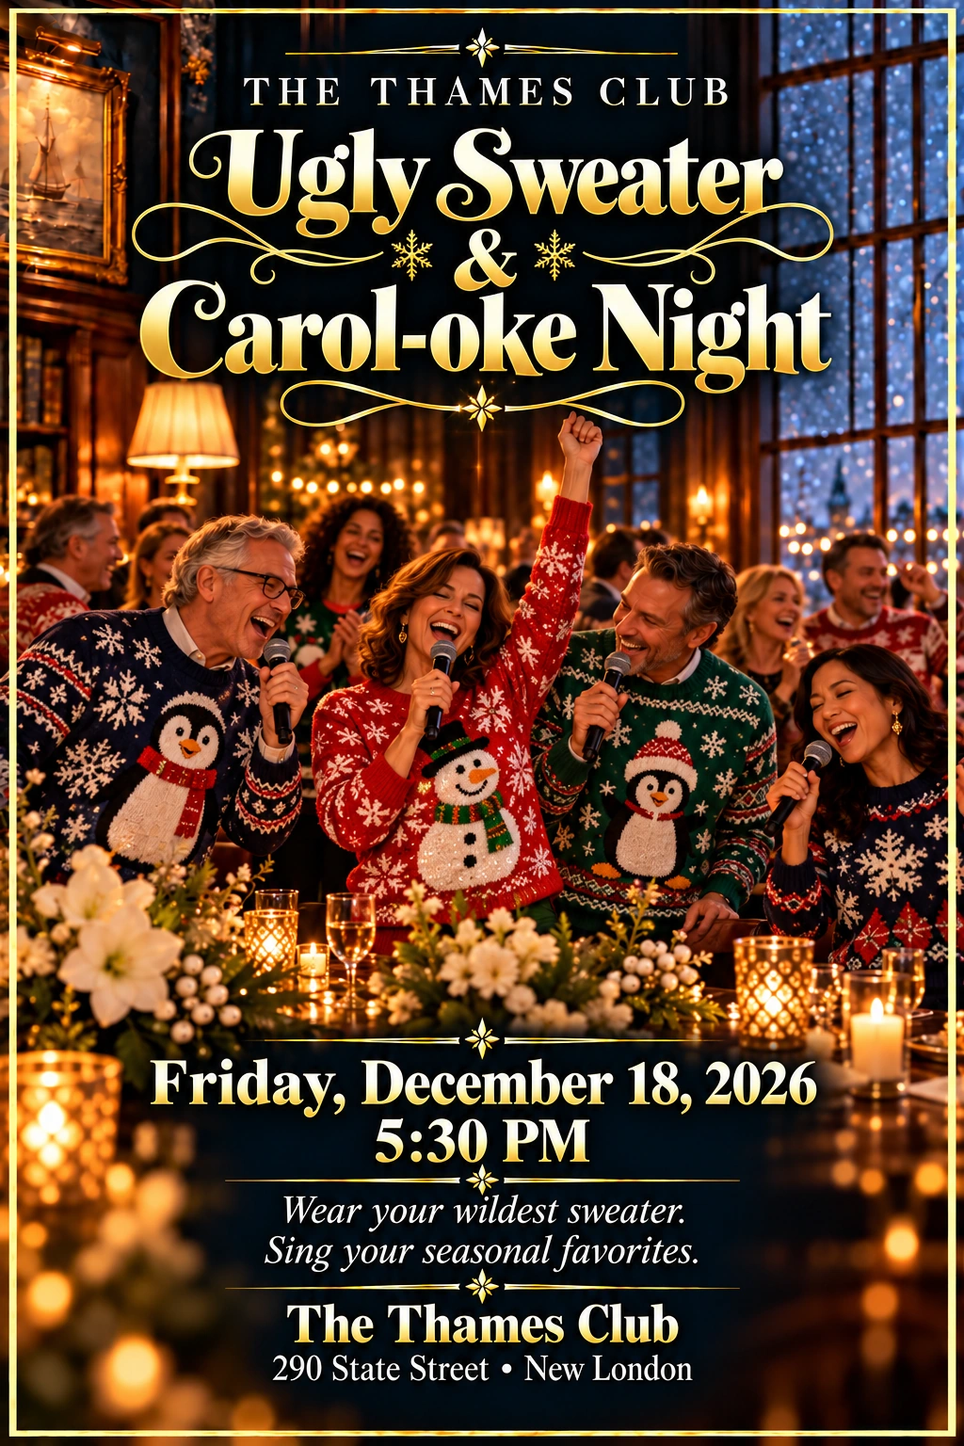
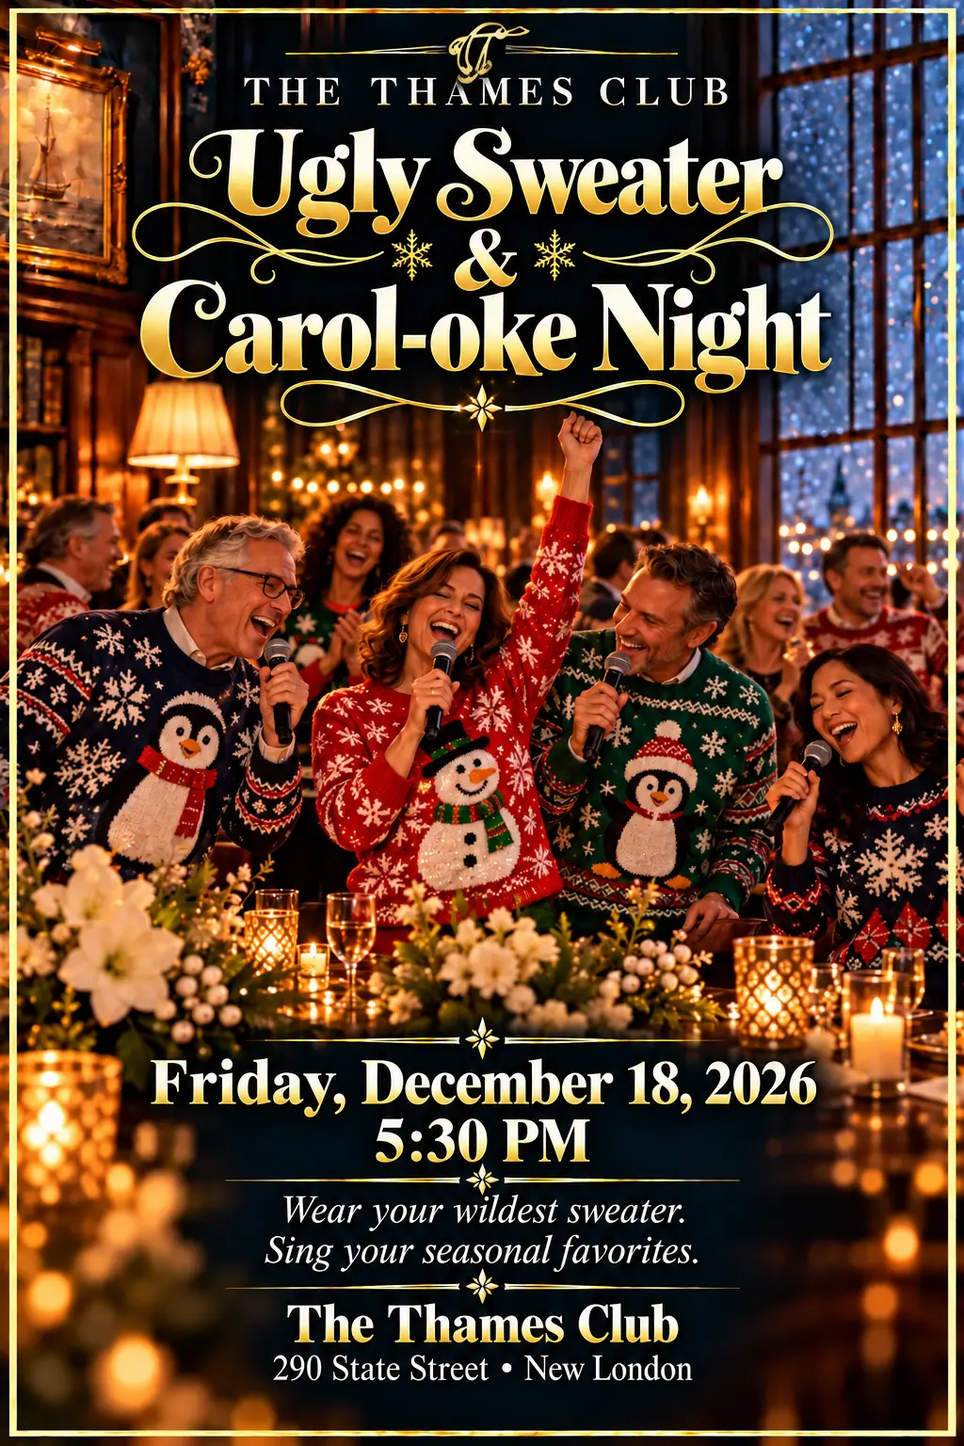
Replace event flyer branding with approved gold monogram and record standing standard

diff --git a/events.html b/events.html
@@ -238,47 +238,47 @@ footer a:hover {
           <figcaption><time datetime="2026-10-23">October 23</time>Classic Movie Night</figcaption>
         </figure>
         <figure class="event-flyer">
-          <a class="event-flyer-art" href="https://duckpin-manager-production.up.railway.app/members/flyers/witching-2026-10-30.svg" target="_blank" rel="noopener noreferrer" aria-label="Read full-size flyer (opens in a new tab)"><img src="https://duckpin-manager-production.up.railway.app/members/flyers/witching-2026-10-30.svg" alt="Witching, Bitching and Warlocks monthly luncheon, October 30, 2026 at 11:30 AM. $40++; reserve by October 23. Menu coming soon." decoding="async"></a>
+          <a class="event-flyer-art" href="https://duckpin-manager-production.up.railway.app/members/flyers/witching-2026-10-30.svg?v=gold20261025" target="_blank" rel="noopener noreferrer" aria-label="Read full-size flyer (opens in a new tab)"><img src="https://duckpin-manager-production.up.railway.app/members/flyers/witching-2026-10-30.svg?v=gold20261025" alt="Witching, Bitching and Warlocks monthly luncheon, October 30, 2026 at 11:30 AM. $40++; reserve by October 23. Menu coming soon." decoding="async"></a>
           <figcaption><time datetime="2026-10-30">October 30</time>Witching, Bitching &amp; Warlocks</figcaption>
         </figure>
         <figure class="event-flyer" data-approval="approved">
-          <a class="event-flyer-art" href="images/wells-watercraft-tour-2026-11-13.png" target="_blank" rel="noopener noreferrer" aria-label="Read the full Wells Watercraft Hall tour flyer (opens in a new tab)"><img src="images/wells-watercraft-tour-2026-11-13.png" alt="Wells Watercraft Hall Tour at Mystic Seaport Museum, Friday November 13, 2026 at 3 PM, followed by cocktails at La Plage. Reserve with Donna Richmond at donnarichmond5@gmail.com." decoding="async"></a>
+          <a class="event-flyer-art" href="images/wells-watercraft-tour-2026-11-13-gold.webp?v=gold20261025" target="_blank" rel="noopener noreferrer" aria-label="Read the full Wells Watercraft Hall tour flyer (opens in a new tab)"><img src="images/wells-watercraft-tour-2026-11-13-gold.webp?v=gold20261025" alt="Wells Watercraft Hall Tour at Mystic Seaport Museum, Friday November 13, 2026 at 3 PM, followed by cocktails at La Plage. Reserve with Donna Richmond at donnarichmond5@gmail.com." decoding="async"></a>
           <figcaption><time datetime="2026-11-13">Friday, November 13 · 3 PM</time>Wells Watercraft Hall Tour &amp; Cocktails<br><a href="mailto:donnarichmond5@gmail.com">Reserve with Donna Richmond</a></figcaption>
         </figure>
         <figure class="event-flyer" data-approval="approved">
-          <a class="event-flyer-art" href="images/paris-to-pathos-talk-2026-11-18.png" target="_blank" rel="noopener noreferrer" aria-label="Read the full Paris to Pathos concert talk flyer (opens in a new tab)"><img src="images/paris-to-pathos-talk-2026-11-18.png" alt="Paris to Pathos concert talk with Eastern Connecticut Symphony Orchestra, Wednesday November 18, 2026 at 2 PM, The Thames Club. Members and nonmembers welcome; no reservations required. Cash bar and complimentary snacks. Previewing the separate November 21 performance." decoding="async"></a>
+          <a class="event-flyer-art" href="images/paris-to-pathos-talk-2026-11-18-gold.webp?v=gold20261025" target="_blank" rel="noopener noreferrer" aria-label="Read the full Paris to Pathos concert talk flyer (opens in a new tab)"><img src="images/paris-to-pathos-talk-2026-11-18-gold.webp?v=gold20261025" alt="Paris to Pathos concert talk with Eastern Connecticut Symphony Orchestra, Wednesday November 18, 2026 at 2 PM, The Thames Club. Members and nonmembers welcome; no reservations required. Cash bar and complimentary snacks. Previewing the separate November 21 performance." decoding="async"></a>
           <figcaption><time datetime="2026-11-18">Wednesday, November 18 · 2 PM</time>Paris to Pathos · Concert Talk<br><a href="mailto:thamesclub.nl@gmail.com">Inquiries: thamesclub.nl@gmail.com</a></figcaption>
         </figure>
         <figure class="event-flyer" data-approval="approved" data-reservation='{"id":"thanksgiving-2026-11-19","title":"Thanksgiving Dinner & Game of Chance","event_date":"2026-11-19","event_time":"5:30 PM","notes":"Tables of players rolling dice, followed by a traditional Thanksgiving dinner. Price and menu details to follow.","reservations_required":true}'>
-          <a class="event-flyer-art" href="images/thanksgiving-2026-11-19.webp" target="_blank" rel="noopener noreferrer" aria-label="Thanksgiving Dinner and Game of Chance — event details and reservation request"><img src="images/thanksgiving-2026-11-19.webp" width="1024" height="1536" alt="The Thames Club Thanksgiving Dinner and Game of Chance, Thursday November 19, 2026 at 5:30 PM. Gather around the tables for a lively game of dice, followed by a traditional Thanksgiving dinner. 290 State Street, New London." decoding="async"></a>
+          <a class="event-flyer-art" href="images/thanksgiving-2026-11-19.webp?v=gold20261025" target="_blank" rel="noopener noreferrer" aria-label="Thanksgiving Dinner and Game of Chance — event details and reservation request"><img src="images/thanksgiving-2026-11-19.webp?v=gold20261025" width="1024" height="1536" alt="The Thames Club Thanksgiving Dinner and Game of Chance, Thursday November 19, 2026 at 5:30 PM. Gather around the tables for a lively game of dice, followed by a traditional Thanksgiving dinner. 290 State Street, New London." decoding="async"></a>
           <figcaption><time datetime="2026-11-19">Thursday, November 19 · 5:30 PM</time>Thanksgiving Dinner &amp; Game of Chance</figcaption>
         </figure>
         <figure class="event-flyer" data-approval="approved" hidden data-reservation='{&quot;id&quot;: &quot;first-friday-2026-11-06&quot;, &quot;title&quot;: &quot;First Friday Dinner &amp; Concert by Candlelight — Christopher Faison&quot;, &quot;event_date&quot;: &quot;2026-11-06&quot;, &quot;event_time&quot;: &quot;5:30 PM&quot;, &quot;notes&quot;: &quot;Sounds Familiar. Menu details to follow. An 18% service charge applies, followed by 7.35% tax.&quot;, &quot;price&quot;: &quot;$75++ per person&quot;, &quot;reserve_by&quot;: &quot;2026-10-30&quot;, &quot;reservations_required&quot;: true}'>
-          <a class="event-flyer-art" href="images/first-friday-2026-11-06.jpg" target="_blank" rel="noopener noreferrer" aria-label="Open event details and request form"><img src="images/first-friday-2026-11-06.jpg" width="720" height="1080" alt="First Friday Dinner &amp; Concert by Candlelight — Christopher Faison — Friday, November 6 · 5:30 PM. Sounds Familiar. Menu details to follow. An 18% service charge applies, followed by 7.35% tax." loading="lazy" decoding="async"></a>
+          <a class="event-flyer-art" href="images/first-friday-2026-11-06.jpg?v=gold20261025" target="_blank" rel="noopener noreferrer" aria-label="Open event details and request form"><img src="images/first-friday-2026-11-06.jpg?v=gold20261025" width="720" height="1080" alt="First Friday Dinner &amp; Concert by Candlelight — Christopher Faison — Friday, November 6 · 5:30 PM. Sounds Familiar. Menu details to follow. An 18% service charge applies, followed by 7.35% tax." loading="lazy" decoding="async"></a>
           <figcaption><time datetime="2026-11-06">Friday, November 6 · 5:30 PM</time>First Friday Dinner &amp; Concert by Candlelight — Christopher Faison</figcaption>
         </figure>
         <figure class="event-flyer" data-approval="approved" hidden data-reservation='{&quot;id&quot;: &quot;holiday-spectacular-talk-2026-12-02&quot;, &quot;title&quot;: &quot;Holiday Spectacular — ECSO Concert Talk&quot;, &quot;event_date&quot;: &quot;2026-12-02&quot;, &quot;event_time&quot;: &quot;2 PM&quot;, &quot;notes&quot;: &quot;Cash bar and complimentary snacks. Preview of the separate December 5 concert at 3 PM at the Garde Arts Center.&quot;, &quot;reservation_status&quot;: &quot;unknown&quot;}'>
-          <a class="event-flyer-art" href="images/holiday-spectacular-talk-2026-12-02.webp" target="_blank" rel="noopener noreferrer" aria-label="Open event details and request form"><img src="images/holiday-spectacular-talk-2026-12-02.webp" width="1024" height="1536" alt="Holiday Spectacular — ECSO Concert Talk — Wednesday, December 2 · 2 PM. Cash bar and complimentary snacks. Preview of the separate December 5 concert at 3 PM at the Garde Arts Center." loading="lazy" decoding="async"></a>
+          <a class="event-flyer-art" href="images/holiday-spectacular-talk-2026-12-02.webp?v=gold20261025" target="_blank" rel="noopener noreferrer" aria-label="Open event details and request form"><img src="images/holiday-spectacular-talk-2026-12-02.webp?v=gold20261025" width="1024" height="1536" alt="Holiday Spectacular — ECSO Concert Talk — Wednesday, December 2 · 2 PM. Cash bar and complimentary snacks. Preview of the separate December 5 concert at 3 PM at the Garde Arts Center." loading="lazy" decoding="async"></a>
           <figcaption><time datetime="2026-12-02">Wednesday, December 2 · 2 PM</time>Holiday Spectacular — ECSO Concert Talk</figcaption>
         </figure>
         <figure class="event-flyer" data-approval="approved" hidden data-reservation='{&quot;id&quot;: &quot;holiday-dinner-2026-12-05&quot;, &quot;title&quot;: &quot;Annual Holiday Dinner with Mike Zaitchik&quot;, &quot;event_date&quot;: &quot;2026-12-05&quot;, &quot;event_time&quot;: &quot;5:30 PM&quot;, &quot;notes&quot;: &quot;All faiths welcome. Music by Mike Zaitchik. Price, menu and reservation deadline to be confirmed.&quot;, &quot;reservations_required&quot;: true}'>
-          <a class="event-flyer-art" href="images/holiday-dinner-2026-12-05.webp" target="_blank" rel="noopener noreferrer" aria-label="Open event details and request form"><img src="images/holiday-dinner-2026-12-05.webp" width="1024" height="1536" alt="Annual Holiday Dinner with Mike Zaitchik — Saturday, December 5 · 5:30 PM. All faiths welcome. Music by Mike Zaitchik. Price, menu and reservation deadline to be confirmed." loading="lazy" decoding="async"></a>
+          <a class="event-flyer-art" href="images/holiday-dinner-2026-12-05.webp?v=gold20261025" target="_blank" rel="noopener noreferrer" aria-label="Open event details and request form"><img src="images/holiday-dinner-2026-12-05.webp?v=gold20261025" width="1024" height="1536" alt="Annual Holiday Dinner with Mike Zaitchik — Saturday, December 5 · 5:30 PM. All faiths welcome. Music by Mike Zaitchik. Price, menu and reservation deadline to be confirmed." loading="lazy" decoding="async"></a>
           <figcaption><time datetime="2026-12-05">Saturday, December 5 · 5:30 PM</time>Annual Holiday Dinner with Mike Zaitchik</figcaption>
         </figure>
         <figure class="event-flyer" data-approval="approved" hidden data-reservation='{&quot;id&quot;: &quot;menorah-lighting-2026-12-10&quot;, &quot;title&quot;: &quot;Menorah Lighting&quot;, &quot;event_date&quot;: &quot;2026-12-10&quot;, &quot;event_time&quot;: &quot;6 PM&quot;, &quot;notes&quot;: &quot;Cash bar and complimentary light refreshments. Reservation requirements to be confirmed.&quot;, &quot;reservation_status&quot;: &quot;unknown&quot;}'>
-          <a class="event-flyer-art" href="images/menorah-lighting-2026-12-10.webp" target="_blank" rel="noopener noreferrer" aria-label="Open event details and request form"><img src="images/menorah-lighting-2026-12-10.webp" width="1024" height="1536" alt="Menorah Lighting — Thursday, December 10 · 6 PM. Cash bar and complimentary light refreshments. Reservation requirements to be confirmed." loading="lazy" decoding="async"></a>
+          <a class="event-flyer-art" href="images/menorah-lighting-2026-12-10.webp?v=gold20261025" target="_blank" rel="noopener noreferrer" aria-label="Open event details and request form"><img src="images/menorah-lighting-2026-12-10.webp?v=gold20261025" width="1024" height="1536" alt="Menorah Lighting — Thursday, December 10 · 6 PM. Cash bar and complimentary light refreshments. Reservation requirements to be confirmed." loading="lazy" decoding="async"></a>
           <figcaption><time datetime="2026-12-10">Thursday, December 10 · 6 PM</time>Menorah Lighting</figcaption>
         </figure>
         <figure class="event-flyer" data-approval="approved" hidden data-reservation='{&quot;id&quot;: &quot;holiday-trivia-2026-12-11&quot;, &quot;title&quot;: &quot;Holiday Theme Trivia Night&quot;, &quot;event_date&quot;: &quot;2026-12-11&quot;, &quot;event_time&quot;: &quot;5:30 PM&quot;, &quot;notes&quot;: &quot;Holiday trivia and dinner. Menu and reservation requirements to be confirmed.&quot;, &quot;price&quot;: &quot;$40; service charge and tax details to be confirmed&quot;, &quot;reservation_status&quot;: &quot;unknown&quot;}'>
-          <a class="event-flyer-art" href="images/holiday-trivia-2026-12-11.webp" target="_blank" rel="noopener noreferrer" aria-label="Open event details and request form"><img src="images/holiday-trivia-2026-12-11.webp" width="1024" height="1536" alt="Holiday Theme Trivia Night — Friday, December 11 · 5:30 PM. Holiday trivia and dinner. Menu and reservation requirements to be confirmed." loading="lazy" decoding="async"></a>
+          <a class="event-flyer-art" href="images/holiday-trivia-2026-12-11.webp?v=gold20261025" target="_blank" rel="noopener noreferrer" aria-label="Open event details and request form"><img src="images/holiday-trivia-2026-12-11.webp?v=gold20261025" width="1024" height="1536" alt="Holiday Theme Trivia Night — Friday, December 11 · 5:30 PM. Holiday trivia and dinner. Menu and reservation requirements to be confirmed." loading="lazy" decoding="async"></a>
           <figcaption><time datetime="2026-12-11">Friday, December 11 · 5:30 PM</time>Holiday Theme Trivia Night</figcaption>
         </figure>
         <figure class="event-flyer" data-approval="approved" hidden data-reservation='{&quot;id&quot;: &quot;ugly-sweater-2026-12-18&quot;, &quot;title&quot;: &quot;Ugly Sweater &amp; Carol-oke Night&quot;, &quot;event_date&quot;: &quot;2026-12-18&quot;, &quot;event_time&quot;: &quot;5:30 PM&quot;, &quot;notes&quot;: &quot;Wear your wildest sweater and sing seasonal favorites. Light snacks. Reservation requirements to be confirmed.&quot;, &quot;price&quot;: &quot;$15; service charge and tax details to be confirmed&quot;, &quot;reservation_status&quot;: &quot;unknown&quot;}'>
-          <a class="event-flyer-art" href="images/ugly-sweater-2026-12-18.webp" target="_blank" rel="noopener noreferrer" aria-label="Open event details and request form"><img src="images/ugly-sweater-2026-12-18.webp" width="1024" height="1536" alt="Ugly Sweater &amp; Carol-oke Night — Friday, December 18 · 5:30 PM. Wear your wildest sweater and sing seasonal favorites. Light snacks. Reservation requirements to be confirmed." loading="lazy" decoding="async"></a>
+          <a class="event-flyer-art" href="images/ugly-sweater-2026-12-18.webp?v=gold20261025" target="_blank" rel="noopener noreferrer" aria-label="Open event details and request form"><img src="images/ugly-sweater-2026-12-18.webp?v=gold20261025" width="1024" height="1536" alt="Ugly Sweater &amp; Carol-oke Night — Friday, December 18 · 5:30 PM. Wear your wildest sweater and sing seasonal favorites. Light snacks. Reservation requirements to be confirmed." loading="lazy" decoding="async"></a>
           <figcaption><time datetime="2026-12-18">Friday, December 18 · 5:30 PM</time>Ugly Sweater &amp; Carol-oke Night</figcaption>
         </figure>
         <figure class="event-flyer" data-approval="approved" hidden data-reservation='{&quot;id&quot;: &quot;new-years-eve-2026-12-31&quot;, &quot;title&quot;: &quot;New Year’s Eve with Mike Zaitchik&quot;, &quot;event_date&quot;: &quot;2026-12-31&quot;, &quot;event_time&quot;: &quot;5:30 PM&quot;, &quot;notes&quot;: &quot;Mike Zaitchik at the keyboard. Price and reservation requirements to be confirmed.&quot;, &quot;reservation_status&quot;: &quot;unknown&quot;}'>
-          <a class="event-flyer-art" href="images/new-years-eve-2026-12-31.webp" target="_blank" rel="noopener noreferrer" aria-label="Open event details and request form"><img src="images/new-years-eve-2026-12-31.webp" width="1024" height="1536" alt="New Year’s Eve with Mike Zaitchik — Thursday, December 31 · 5:30 PM. Mike Zaitchik at the keyboard. Price and reservation requirements to be confirmed." loading="lazy" decoding="async"></a>
+          <a class="event-flyer-art" href="images/new-years-eve-2026-12-31.webp?v=gold20261025" target="_blank" rel="noopener noreferrer" aria-label="Open event details and request form"><img src="images/new-years-eve-2026-12-31.webp?v=gold20261025" width="1024" height="1536" alt="New Year’s Eve with Mike Zaitchik — Thursday, December 31 · 5:30 PM. Mike Zaitchik at the keyboard. Price and reservation requirements to be confirmed." loading="lazy" decoding="async"></a>
           <figcaption><time datetime="2026-12-31">Thursday, December 31 · 5:30 PM</time>New Year’s Eve with Mike Zaitchik</figcaption>
         </figure>
       </section>
@@ -496,7 +496,7 @@ footer a:hover {
     loadEvents();
   </script>
 <script defer src="reservation-tracking.js?v=20261024-submit1"></script>
-<script defer src="reservation-request.js?v=20261024-submit1"></script>
+<script defer src="reservation-request.js?v=20261025-gold"></script>
 </body>
 </html>
 

diff --git a/reservation-request.js b/reservation-request.js
@@ -77,16 +77,16 @@
 
   // Stable email links contain an event identifier only, never member details.
   const emailEvents = {
-    'first-friday-2026-11-06': {"title": "First Friday Dinner & Concert by Candlelight — Christopher Faison", "date": "2026-11-06", "time": "5:30 PM", "notes": "Sounds Familiar. Menu details to follow. An 18% service charge applies, followed by 7.35% tax.", "image": "images/first-friday-2026-11-06.jpg", "price": "$75++ per person", "deadline": "2026-10-30"},
-    'wells-watercraft-tour-2026-11-13': {title:'Wells Watercraft Hall Tour & Cocktails',date:'2026-11-13',time:'3 PM',location:'Mystic Seaport Museum; cocktails afterward at La Plage',notes:'Reserve with Donna Richmond at donnarichmond5@gmail.com.',image:'images/wells-watercraft-tour-2026-11-13.png'},
-    'paris-to-pathos-talk-2026-11-18': {title:'Paris to Pathos — Concert Talk',date:'2026-11-18',time:'2 PM',noReservation:true,notes:'Members and nonmembers welcome; no reservations required. Cash bar and complimentary snacks. The separate concert is November 21.',image:'images/paris-to-pathos-talk-2026-11-18.png'},
+    'first-friday-2026-11-06': {"title": "First Friday Dinner & Concert by Candlelight — Christopher Faison", "date": "2026-11-06", "time": "5:30 PM", "notes": "Sounds Familiar. Menu details to follow. An 18% service charge applies, followed by 7.35% tax.", "image": "images/first-friday-2026-11-06.jpg?v=gold20261025", "price": "$75++ per person", "deadline": "2026-10-30"},
+    'wells-watercraft-tour-2026-11-13': {title:'Wells Watercraft Hall Tour & Cocktails',date:'2026-11-13',time:'3 PM',location:'Mystic Seaport Museum; cocktails afterward at La Plage',notes:'Reserve with Donna Richmond at donnarichmond5@gmail.com.',image:'images/wells-watercraft-tour-2026-11-13-gold.webp?v=gold20261025'},
+    'paris-to-pathos-talk-2026-11-18': {title:'Paris to Pathos — Concert Talk',date:'2026-11-18',time:'2 PM',noReservation:true,notes:'Members and nonmembers welcome; no reservations required. Cash bar and complimentary snacks. The separate concert is November 21.',image:'images/paris-to-pathos-talk-2026-11-18-gold.webp?v=gold20261025'},
     'thanksgiving-2026-11-19': {title:'Thanksgiving Dinner & Game of Chance',date:'2026-11-19',time:'5:30 PM',notes:'Tables of players rolling dice before a traditional Thanksgiving dinner.'},
-    'holiday-spectacular-talk-2026-12-02': {"title": "Holiday Spectacular — ECSO Concert Talk", "date": "2026-12-02", "time": "2 PM", "notes": "Cash bar and complimentary snacks. Preview of the separate December 5 concert at 3 PM at the Garde Arts Center.", "image": "images/holiday-spectacular-talk-2026-12-02.webp", "reservationStatus": "unknown"},
-    'holiday-dinner-2026-12-05': {"title": "Annual Holiday Dinner with Mike Zaitchik", "date": "2026-12-05", "time": "5:30 PM", "notes": "All faiths welcome. Music by Mike Zaitchik. Price, menu and reservation deadline to be confirmed.", "image": "images/holiday-dinner-2026-12-05.webp"},
-    'menorah-lighting-2026-12-10': {"title": "Menorah Lighting", "date": "2026-12-10", "time": "6 PM", "notes": "Cash bar and complimentary light refreshments. Reservation requirements to be confirmed.", "image": "images/menorah-lighting-2026-12-10.webp", "reservationStatus": "unknown"},
-    'holiday-trivia-2026-12-11': {"title": "Holiday Theme Trivia Night", "date": "2026-12-11", "time": "5:30 PM", "notes": "Holiday trivia and dinner. Menu and reservation requirements to be confirmed.", "image": "images/holiday-trivia-2026-12-11.webp", "price": "$40; service charge and tax details to be confirmed", "reservationStatus": "unknown"},
-    'ugly-sweater-2026-12-18': {"title": "Ugly Sweater & Carol-oke Night", "date": "2026-12-18", "time": "5:30 PM", "notes": "Wear your wildest sweater and sing seasonal favorites. Light snacks. Reservation requirements to be confirmed.", "image": "images/ugly-sweater-2026-12-18.webp", "price": "$15; service charge and tax details to be confirmed", "reservationStatus": "unknown"},
-    'new-years-eve-2026-12-31': {"title": "New Year’s Eve with Mike Zaitchik", "date": "2026-12-31", "time": "5:30 PM", "notes": "Mike Zaitchik at the keyboard. Price and reservation requirements to be confirmed.", "image": "images/new-years-eve-2026-12-31.webp", "reservationStatus": "unknown"}
+    'holiday-spectacular-talk-2026-12-02': {"title": "Holiday Spectacular — ECSO Concert Talk", "date": "2026-12-02", "time": "2 PM", "notes": "Cash bar and complimentary snacks. Preview of the separate December 5 concert at 3 PM at the Garde Arts Center.", "image": "images/holiday-spectacular-talk-2026-12-02.webp?v=gold20261025", "reservationStatus": "unknown"},
+    'holiday-dinner-2026-12-05': {"title": "Annual Holiday Dinner with Mike Zaitchik", "date": "2026-12-05", "time": "5:30 PM", "notes": "All faiths welcome. Music by Mike Zaitchik. Price, menu and reservation deadline to be confirmed.", "image": "images/holiday-dinner-2026-12-05.webp?v=gold20261025"},
+    'menorah-lighting-2026-12-10': {"title": "Menorah Lighting", "date": "2026-12-10", "time": "6 PM", "notes": "Cash bar and complimentary light refreshments. Reservation requirements to be confirmed.", "image": "images/menorah-lighting-2026-12-10.webp?v=gold20261025", "reservationStatus": "unknown"},
+    'holiday-trivia-2026-12-11': {"title": "Holiday Theme Trivia Night", "date": "2026-12-11", "time": "5:30 PM", "notes": "Holiday trivia and dinner. Menu and reservation requirements to be confirmed.", "image": "images/holiday-trivia-2026-12-11.webp?v=gold20261025", "price": "$40; service charge and tax details to be confirmed", "reservationStatus": "unknown"},
+    'ugly-sweater-2026-12-18': {"title": "Ugly Sweater & Carol-oke Night", "date": "2026-12-18", "time": "5:30 PM", "notes": "Wear your wildest sweater and sing seasonal favorites. Light snacks. Reservation requirements to be confirmed.", "image": "images/ugly-sweater-2026-12-18.webp?v=gold20261025", "price": "$15; service charge and tax details to be confirmed", "reservationStatus": "unknown"},
+    'new-years-eve-2026-12-31': {"title": "New Year’s Eve with Mike Zaitchik", "date": "2026-12-31", "time": "5:30 PM", "notes": "Mike Zaitchik at the keyboard. Price and reservation requirements to be confirmed.", "image": "images/new-years-eve-2026-12-31.webp?v=gold20261025", "reservationStatus": "unknown"}
   };
   let emailOpened=false;
   function eventKey(figure){

diff --git a/docs/BRANDING.md b/docs/BRANDING.md
@@ -1,0 +1,12 @@
+# Thames Club flyer and poster branding
+
+Standing direction from Bill, October 25, 2026:
+
+- Use the approved elegant Thames Club calligraphic interlocking monogram in gold on all future flyers and posters.
+- Canonical asset: `images/thames-club-monogram-gold.png` in ThamesClubLive. It preserves the shape of the supplied `ThamesClub_Logo_Navy(3).png`, recolored gold (#c9a96e) with transparency.
+- Do not substitute anchor pennants, anchors, crests, shields, compass roses, or invented initials for the Club logo.
+- Preserve the approved monogram shape and proportions. Place it clearly without covering event information.
+- Event-specific artwork and seasonal decorations may remain; they are not substitutes for the Club mark.
+- When updating existing flyers, preserve event names, dates, times, prices, reservation deadlines, contact details and approved copy. Check the finished artwork before publication.
+
+Approved October 25, 2026 replacements retain the existing event artwork and use the gold monogram in the branding position.

diff --git a/AGENTS.md b/AGENTS.md
@@ -1,0 +1,3 @@
+# Thames Club project instructions
+
+For all flyer and poster work, follow [docs/BRANDING.md](docs/BRANDING.md). Use the exact approved elegant gold Thames Club monogram at images/thames-club-monogram-gold.png. Do not substitute anchors, pennants, crests, compass roses or invented initials as the Club logo. This is Bill's standing direction, October 25, 2026.
